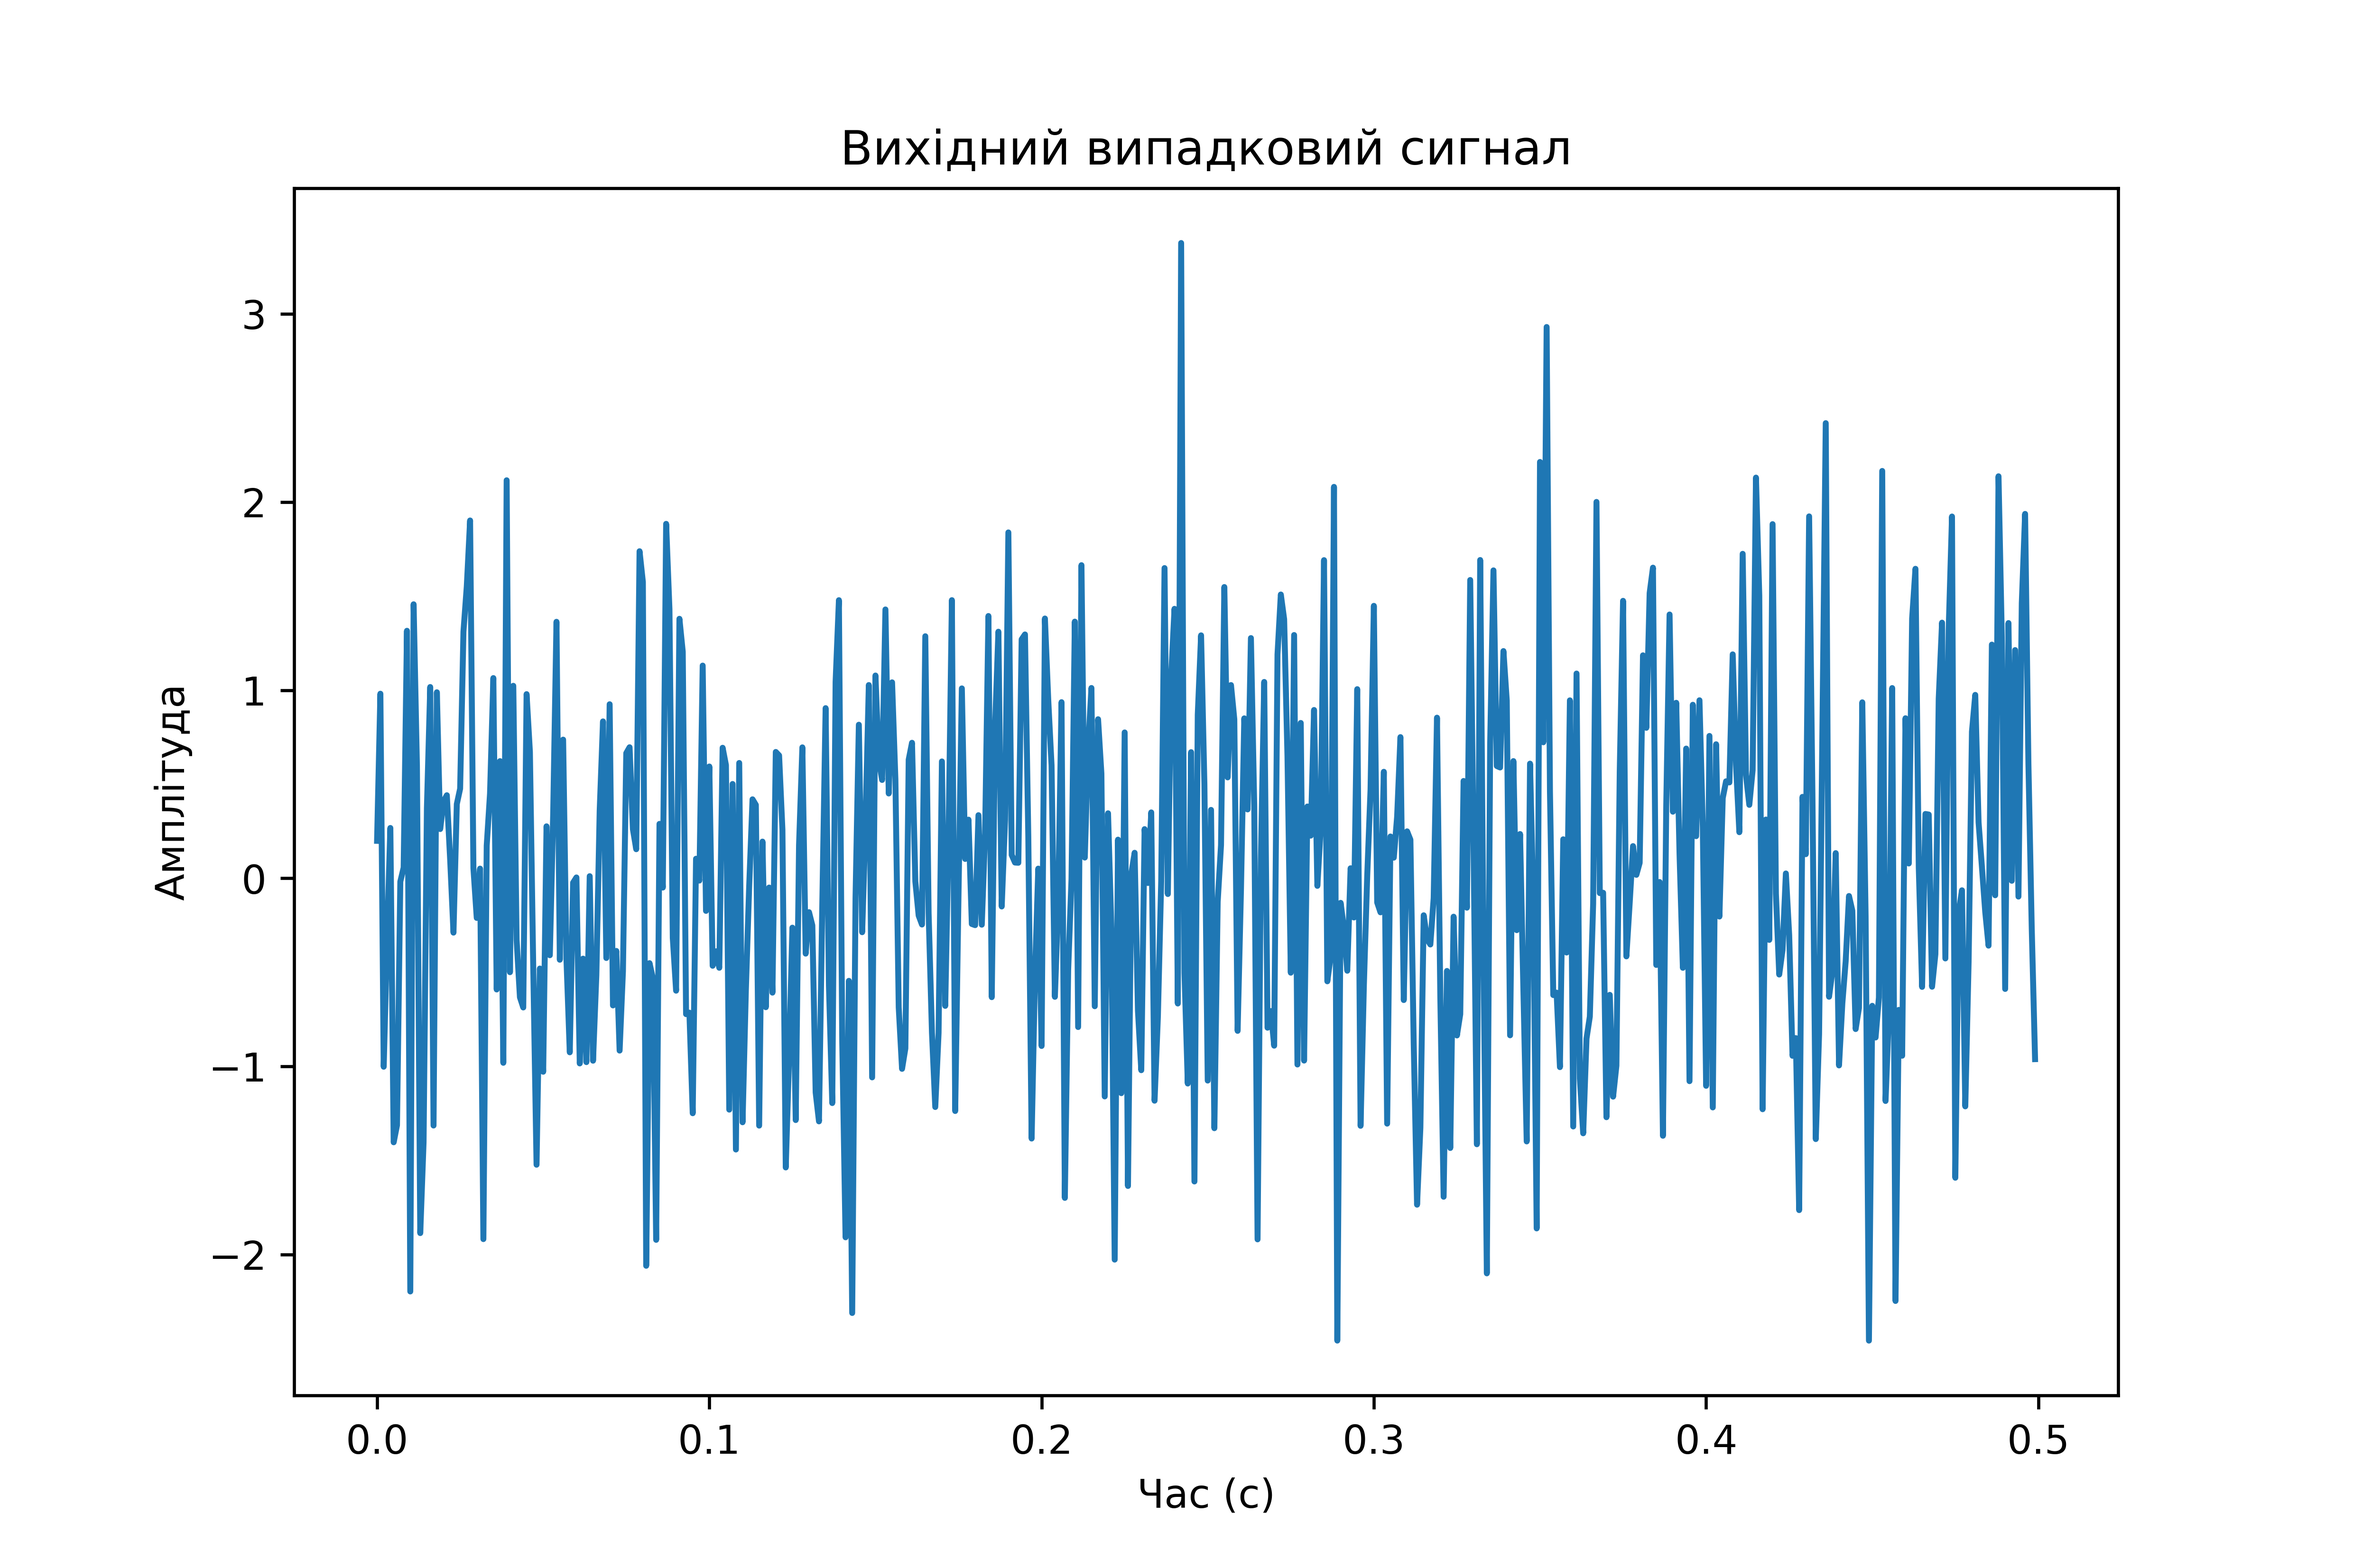
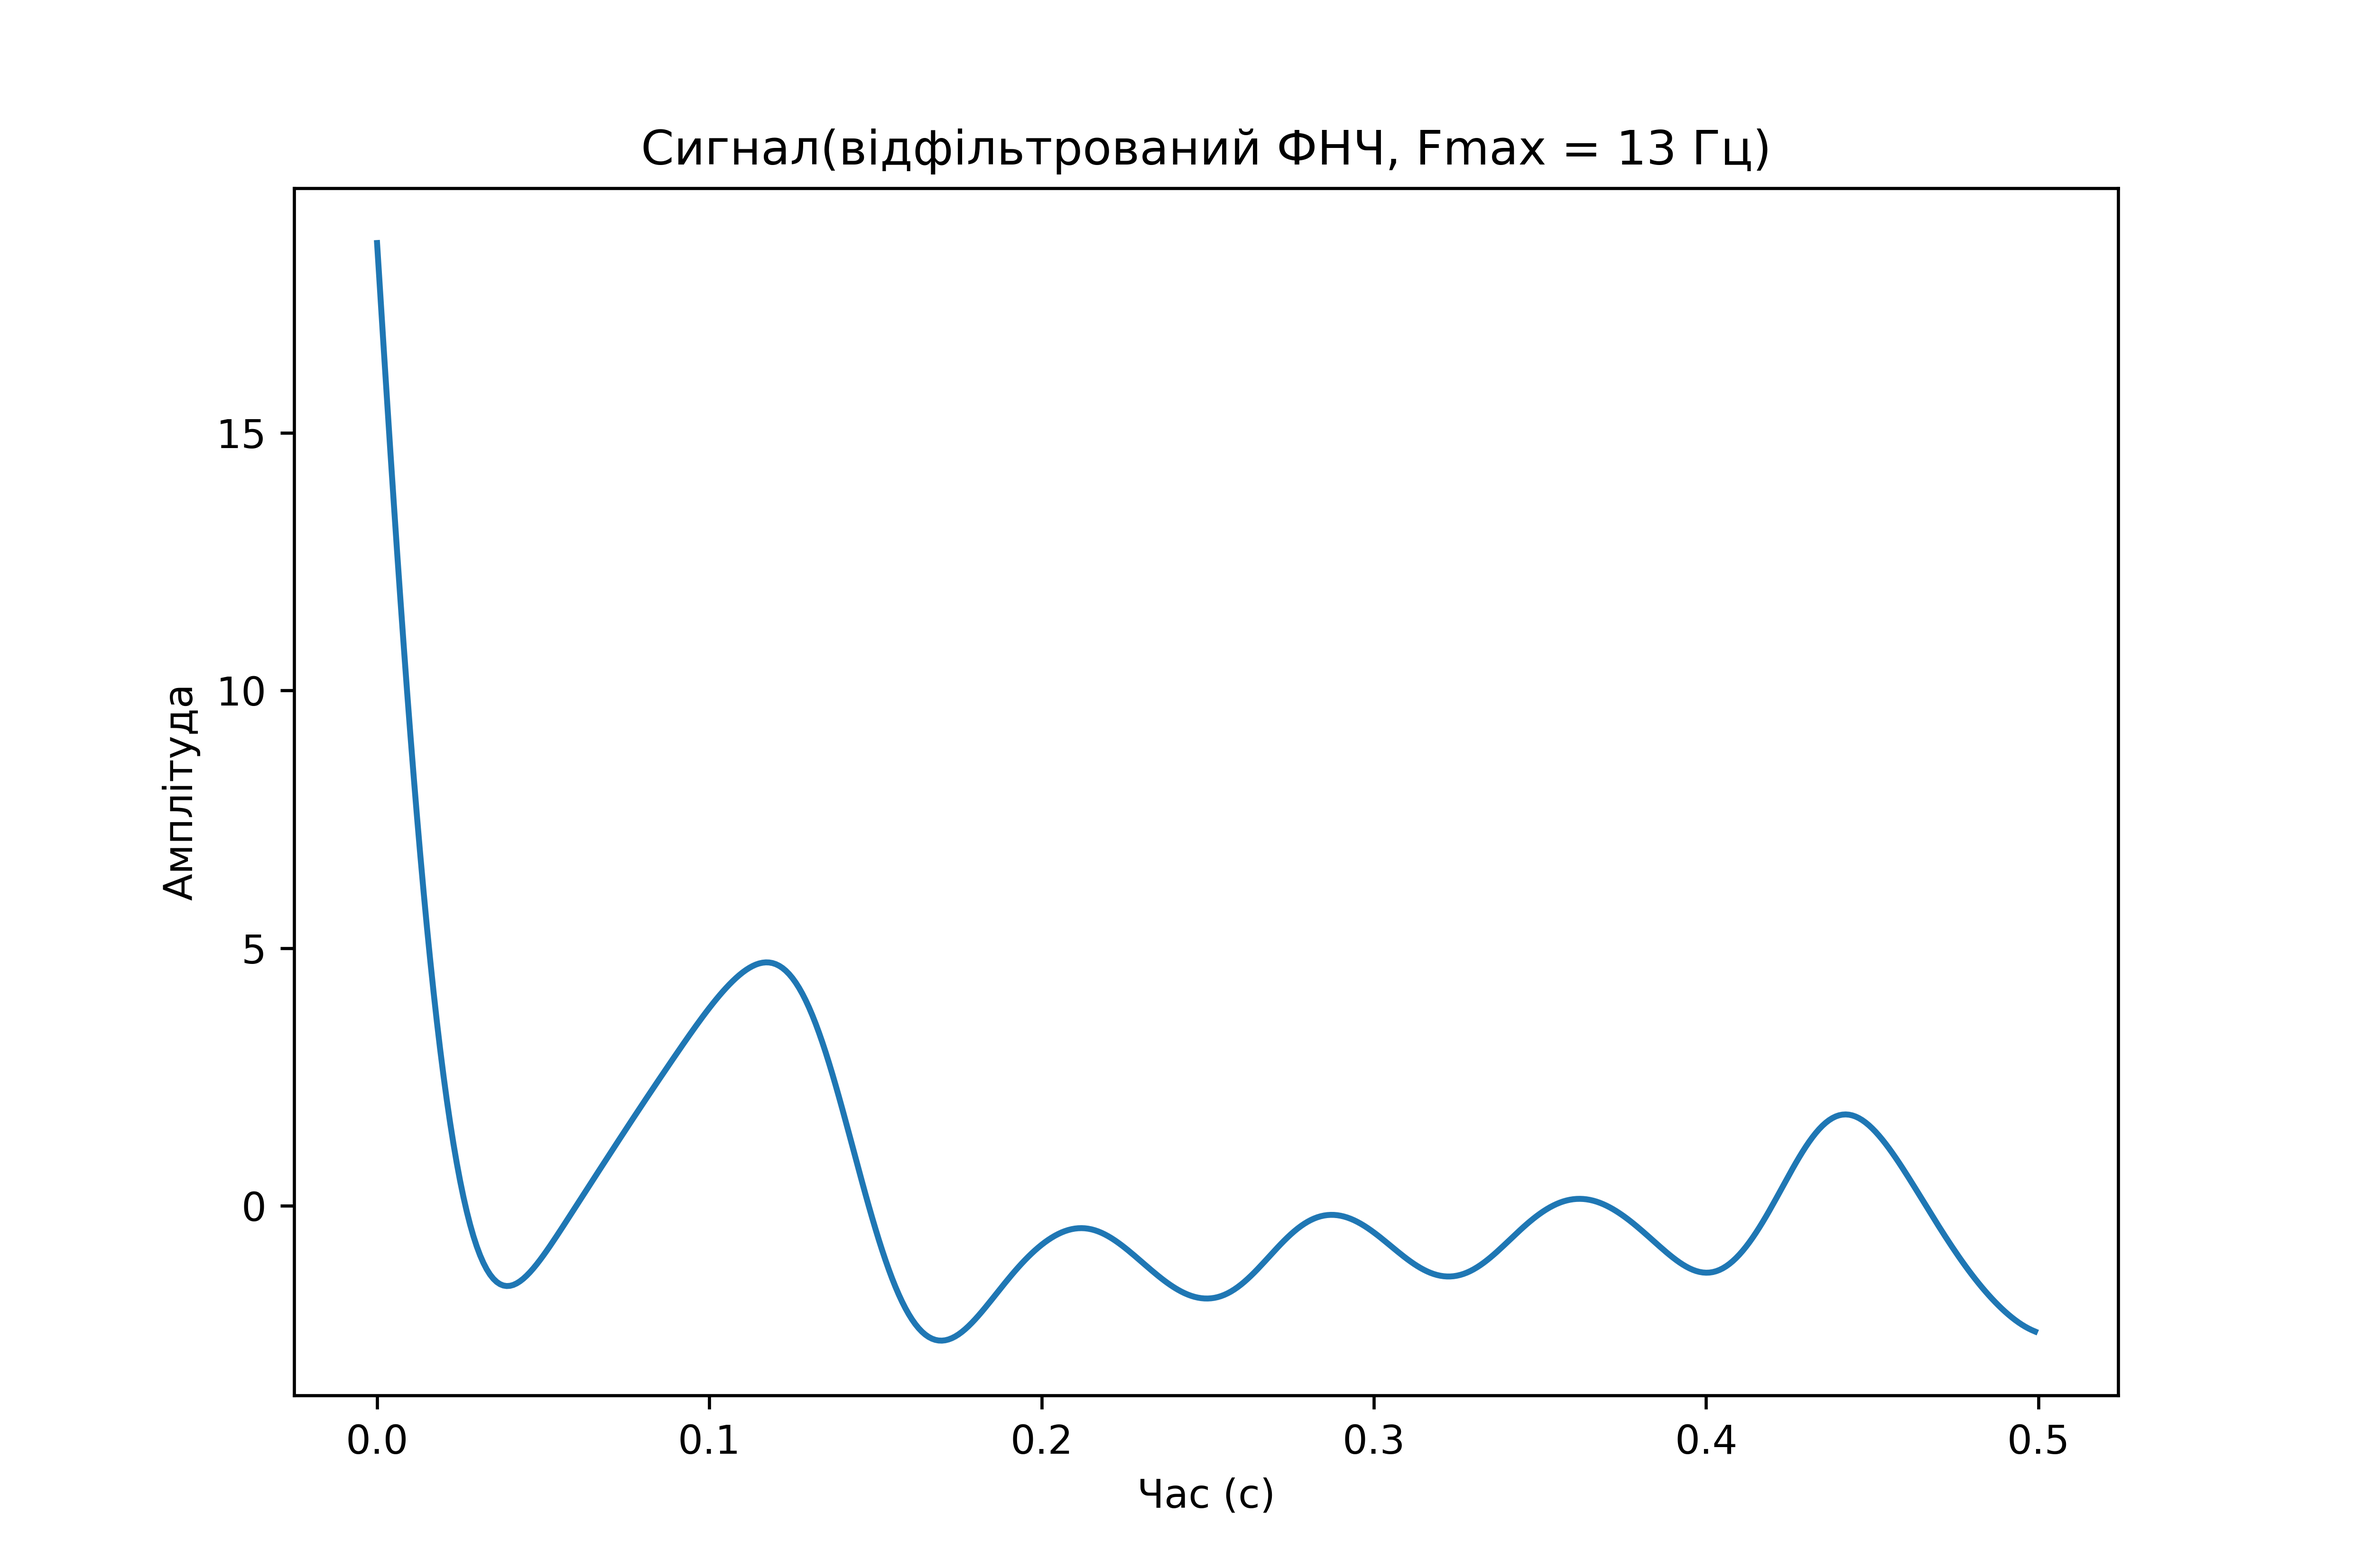
Fix signal

diff --git a/SignalProcessing/SignalProcessing.py b/SignalProcessing/SignalProcessing.py
@@ -1,130 +1,103 @@
 import numpy as np
 import matplotlib.pyplot as plt
+from scipy import signal as sp_signal
 import os
+
 
 os.makedirs("figures", exist_ok=True)
 
+
 n = 500
 Fs = 1000
-Fmax = 3
+F_max_pr2 = 13
 
 t = np.arange(n) / Fs
-signal_raw = np.random.randn(n)
 
-freqs = np.fft.rfftfreq(n, d=1/Fs)
-signal_fft = np.fft.rfft(signal_raw)
-signal_fft[freqs > Fmax] = 0
-signal = np.fft.irfft(signal_fft, n=n)
 
-fig, ax = plt.subplots(figsize=(21/2.54, 14/2.54))
-ax.plot(t, signal_raw)
+raw_noise = np.random.normal(0, 10, n)
+w_initial = F_max_pr2 / (Fs / 2)
+sos_initial = sp_signal.butter(3, w_initial, 'low', output='sos')
+
+signal_from_pr2 = sp_signal.sosfiltfilt(sos_initial, raw_noise)
+
+
+fig, ax = plt.subplots(figsize=(21 / 2.54, 14 / 2.54))
+ax.plot(t, signal_from_pr2)
 ax.set_xlabel("Час (с)")
 ax.set_ylabel("Амплітуда")
-ax.set_title("Вихідний випадковий сигнал")
+ax.set_title(f"Сигнал(відфільтрований ФНЧ, Fmax = {F_max_pr2} Гц)")
 fig.savefig("figures/Вихідний сигнал.png", dpi=600)
 plt.close(fig)
 
-fig, ax = plt.subplots(figsize=(21/2.54, 14/2.54))
-ax.plot(t, signal)
-ax.set_xlabel("Час (с)")
-ax.set_ylabel("Амплітуда")
-ax.set_title(f"Сигнал після обмеження частоти (Fmax = {Fmax} Гц)")
-fig.savefig("figures/Відфільтрований сигнал.png", dpi=600)
-plt.close(fig)
 
 quantized_signals = []
 dispersions = []
 snr_list = []
 
-signal_power = np.mean(signal ** 2)
+
+signal_power = np.mean(signal_from_pr2 ** 2)
 
 for M in [4, 16, 64, 256]:
-
     bits = []
 
-    delta = (np.max(signal) - np.min(signal)) / (M - 1)
 
-    quantize_signal = delta * np.round(signal / delta)
+    s_min, s_max = np.min(signal_from_pr2), np.max(signal_from_pr2)
+    delta = (s_max - s_min) / (M - 1)
 
-    quantize_levels = np.linspace(
-        np.min(quantize_signal),
-        np.max(quantize_signal),
-        M
-    )
 
-    num_bits = int(np.log(M) / np.log(2))
-    quantize_bit = np.arange(0, M)
-    quantize_bit = [format(b, '0' + str(num_bits) + 'b') for b in quantize_bit]
+    quantize_signal = delta * np.round((signal_from_pr2 - s_min) / delta) + s_min
 
-    quantize_table = np.c_[quantize_levels[:M], quantize_bit[:M]]
 
-    fig, ax = plt.subplots(figsize=(14/2.54, M/2.54))
-    table = ax.table(
-        cellText=quantize_table,
-        colLabels=["Значення сигналу", "Кодова послідовність"],
-        loc="center"
-    )
-    table.set_fontsize(14)
-    table.scale(1, 2)
+    quantize_levels = np.linspace(s_min, s_max, M)
+    num_bits = int(np.log2(M))
+    quantize_bit = [format(b, '0' + str(num_bits) + 'b') for b in range(M)]
+
+
+    quantize_table = np.c_[np.round(quantize_levels, 3), quantize_bit]
+    fig, ax = plt.subplots(figsize=(14 / 2.54, max(4, M / 4) / 2.54))
+    table = ax.table(cellText=quantize_table, colLabels=["Значення", "Код"], loc="center")
+    table.set_fontsize(10)
     ax.axis("off")
-    ax.set_title(f"Таблиця квантування для {M} рівнів", pad=12)
-    fig.savefig(f"figures/Таблиця квантування для {M} рівнів.png", dpi=600, bbox_inches="tight")
+    ax.set_title(f"Таблиця квантування M = {M}")
+    fig.savefig(f"figures/Таблиця_квантування_{M}.png", dpi=300, bbox_inches="tight")
     plt.close(fig)
 
-    for signal_value in quantize_signal:
-        distances = np.abs(quantize_levels[:M] - signal_value)
-        index = np.argmin(distances)
-        bits.append(quantize_bit[index])
 
-    bits = [int(item) for item in list("".join(bits))]
-
-    fig, ax = plt.subplots(figsize=(21/2.54, 14/2.54))
-    ax.step(np.arange(0, len(bits)), bits, linewidth=0.1)
-    ax.set_xlabel("Номер біту")
-    ax.set_ylabel("Значення (0 / 1)")
-    ax.set_title(f"Кодова послідовність (M = {M}, {len(bits)} біт)")
-    fig.savefig(f"figures/Кодова послідовність M={M}.png", dpi=600)
-    plt.close(fig)
-
-    error = signal - quantize_signal
+    error = signal_from_pr2 - quantize_signal
     dispersion = np.mean(error ** 2)
-    snr = signal_power / dispersion
+    snr = signal_power / dispersion if dispersion > 0 else 0
 
     dispersions.append(dispersion)
     snr_list.append(snr)
     quantized_signals.append((M, quantize_signal))
 
-fig, axes = plt.subplots(4, 1, figsize=(21/2.54, 28/2.54), sharex=True)
+
+
+
+fig, axes = plt.subplots(4, 1, figsize=(21 / 2.54, 28 / 2.54), sharex=True)
 for ax, (M, qs) in zip(axes, quantized_signals):
-    ax.plot(t, qs, linewidth=0.7)
+    ax.plot(t, signal_from_pr2, color='gray', alpha=0.3, label='Оригінал')
+    ax.step(t, qs, linewidth=0.7, label=f'M={M}')
     ax.set_ylabel("Амплітуда")
-    ax.set_title(f"M = {M} рівнів")
+    ax.legend(loc='upper right', fontsize=8)
 axes[-1].set_xlabel("Час (с)")
-fig.suptitle("Квантовані сигнали при різних M", fontsize=12)
+fig.suptitle("Квантування відфільтрованого сигналу", fontsize=12)
 fig.tight_layout()
 fig.savefig("figures/Квантовані сигнали.png", dpi=600)
 plt.close(fig)
 
+
 M_values = [4, 16, 64, 256]
-
-fig, ax = plt.subplots(figsize=(14/2.54, 10/2.54))
-ax.plot(M_values, dispersions, marker="o")
-ax.set_xlabel("Кількість рівнів квантування M")
-ax.set_ylabel("Дисперсія помилки квантування")
-ax.set_title("Залежність дисперсії від кількості рівнів квантування")
-ax.set_xscale("log", base=2)
-ax.set_xticks(M_values)
-ax.set_xticklabels(M_values)
-fig.savefig("figures/Залежність дисперсії від M.png", dpi=600)
-plt.close(fig)
-
-fig, ax = plt.subplots(figsize=(14/2.54, 10/2.54))
+fig, ax = plt.subplots(figsize=(14 / 2.54, 10 / 2.54))
 ax.plot(M_values, snr_list, marker="o", color="tab:orange")
-ax.set_xlabel("Кількість рівнів квантування M")
-ax.set_ylabel("Відношення сигнал/шум (лін.)")
-ax.set_title("Залежність SNR від кількості рівнів квантування")
+ax.set_xlabel("Кількість рівнів M")
+ax.set_ylabel("SNR (лін.)")
 ax.set_xscale("log", base=2)
 ax.set_xticks(M_values)
 ax.set_xticklabels(M_values)
-fig.savefig("figures/Залежність SNR від M.png", dpi=600)
+ax.grid(True, which='both', linestyle='--', alpha=0.5)
+ax.set_title("Залежність SNR від M ")
+fig.savefig("figures/Залежність_SNR_від_M.png", dpi=600)
 plt.close(fig)
+
+print("Інтеграція завершена. Перевірте папку /figures/")
